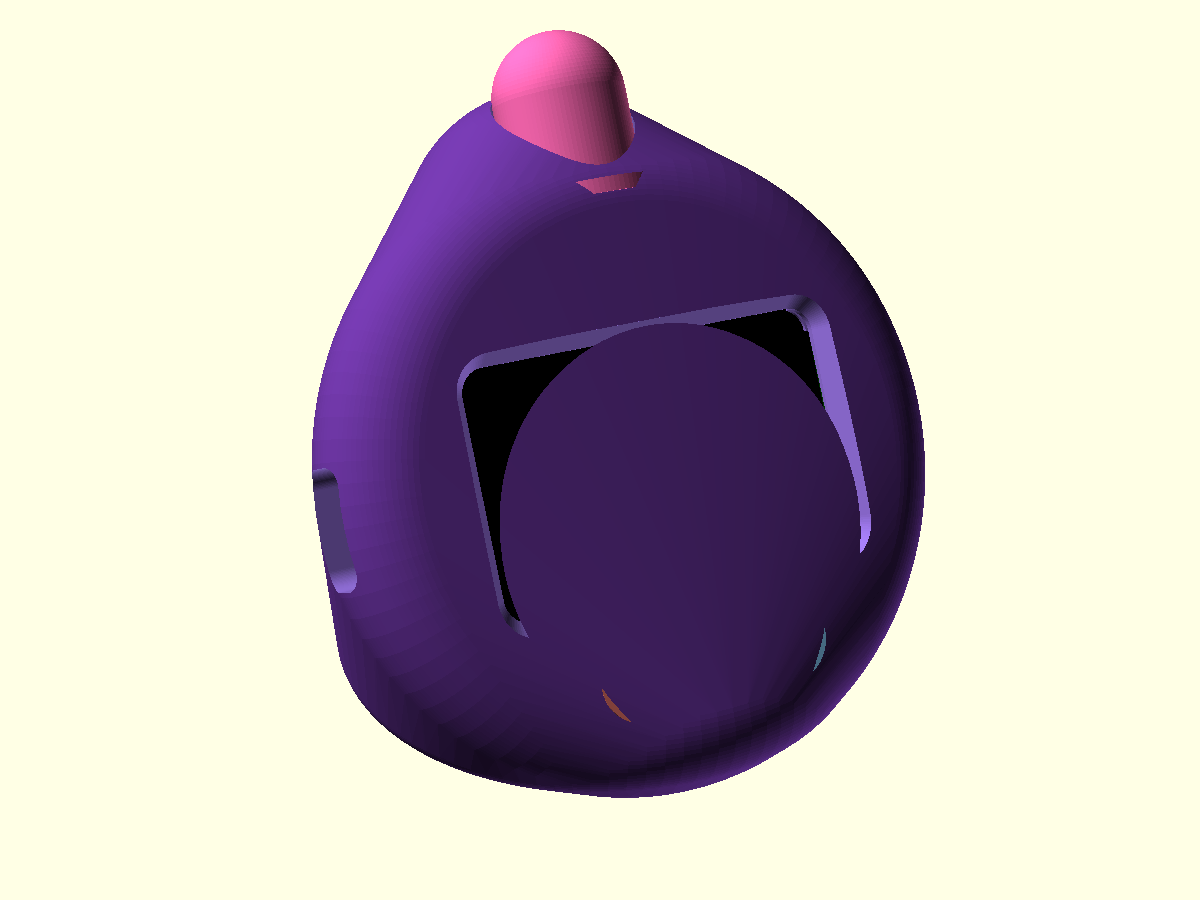
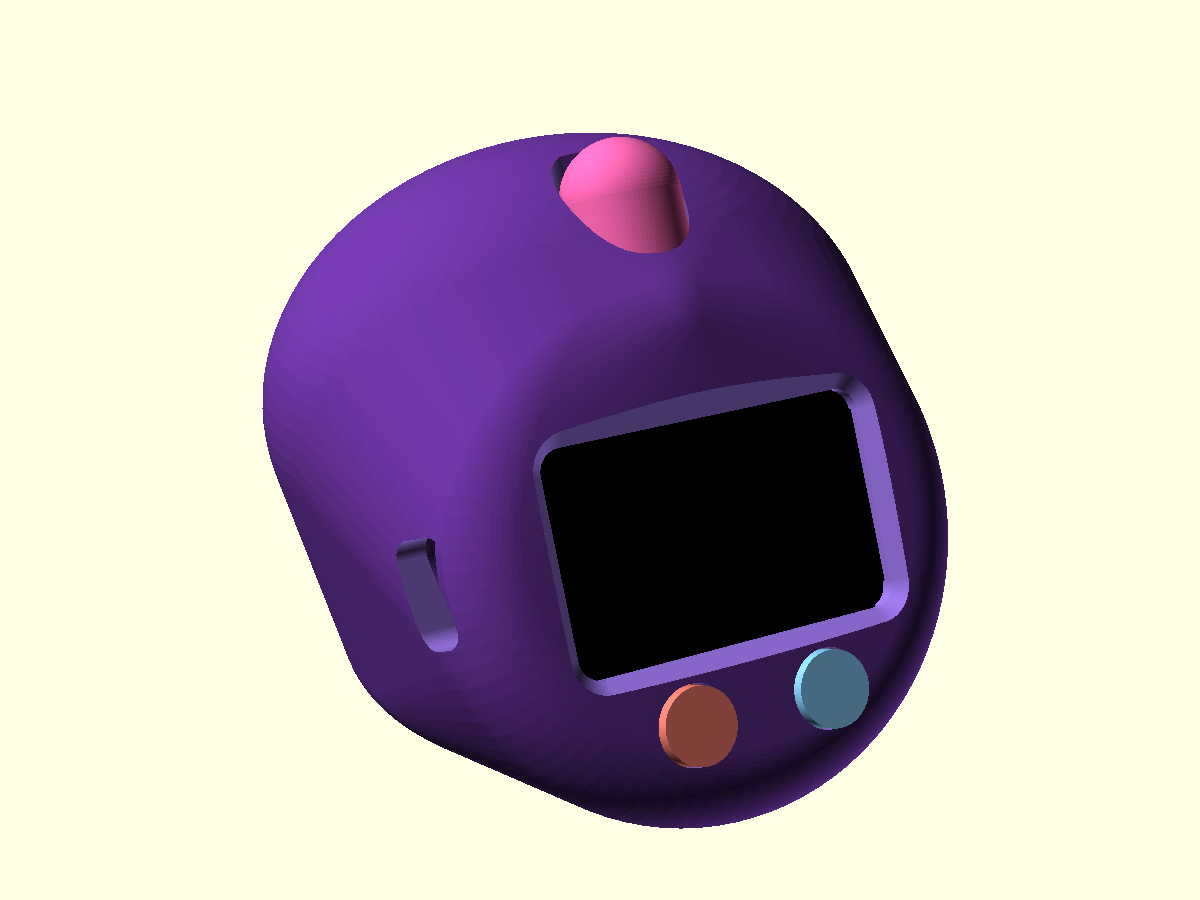
hardware: case v3 — bao zi body
The body is now a plump bun ellipsoid with the tilted face inset as a
small pillowed facet, so the buddy reads as a bao with a face rather
than a screen with a body. Brow rolls over the window, boop dome sits
in a crown dimple. Face cuts punch through the hull tenting the brow
introduces (documented in the README).

Changed region(s): [[0.3083, 0.0311, 0.8017, 0.9333], [0.2158, 0.1867, 0.3392, 0.6844], [0.2775, 0.7156, 0.37, 0.84]]

diff --git a/hardware/case/README.md b/hardware/case/README.md
@@ -1,10 +1,18 @@
-# Boop Pebble Case v2 — sitting blob (form prototype)
+# Boop Pebble Case v3 — bao zi (form prototype)
 
 Desk-buddy enclosure for the Waveshare ESP32-S3-Touch-AMOLED-1.64
-("Boop Pebble"). The buddy sits on a flat bottom; the whole face —
-screen window, menu/reject caps below it, and the board behind — tilts
-back 25° from vertical so the screen looks up at you. Big boop dome on
-the crown, soft domed back. Roughly 64 mm wide × 62 mm tall × 58 mm deep.
+("Boop Pebble"). The body is a plump steamed-bun ellipsoid on a flat
+bottom, with the face — screen window, menu/reject caps below it, and
+the board behind — inset as a small pillowed facet that tilts back 25°
+from vertical so the screen looks up at you. A brow rolls over the top
+of the window, and the boop dome nestles in a dimple on the crown.
+Roughly 72 mm wide × 62 mm tall × 76 mm deep.
+
+Geometry gotcha for future edits: the brow sphere sits proud of the
+face plane, so the body hull "tents" the whole facet forward ~1.5 mm —
+face cuts (window, button holes) must punch well past local z=0, and
+anything added near the face plane should be checked with
+`part="section"` and the `shell_dbg` part.
 
 Everything is generated from `boop-pebble-case.scad` (OpenSCAD). Compiled
 STLs are in `stl/` (gitignored, regenerate below), renders in `renders/`.
@@ -73,7 +81,8 @@ openscad -q -D 'part="assembly"' --imgsize=1200,1000 --camera=0,0,26,72,0,180,21
   -o renders/assembly-face.png boop-pebble-case.scad
 ```
 
-`part` also accepts `assembly`, `exploded`, and `section`. The section
-view is the quickest sanity check on walls and button/switch geometry
-after changing parameters; the face plane is world-tilted, so eyeball new
+`part` also accepts `assembly`, `exploded`, `section`, and `shell_dbg`
+(hollow body only, face-on — for debugging the hull). The section view
+is the quickest sanity check on walls and button/switch geometry after
+changing parameters; the face plane is world-tilted, so eyeball new
 features there before printing.
